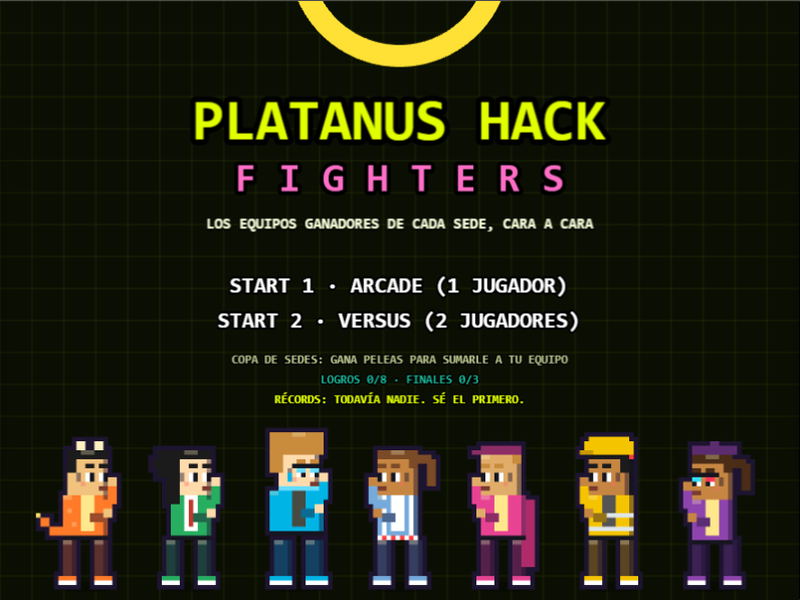
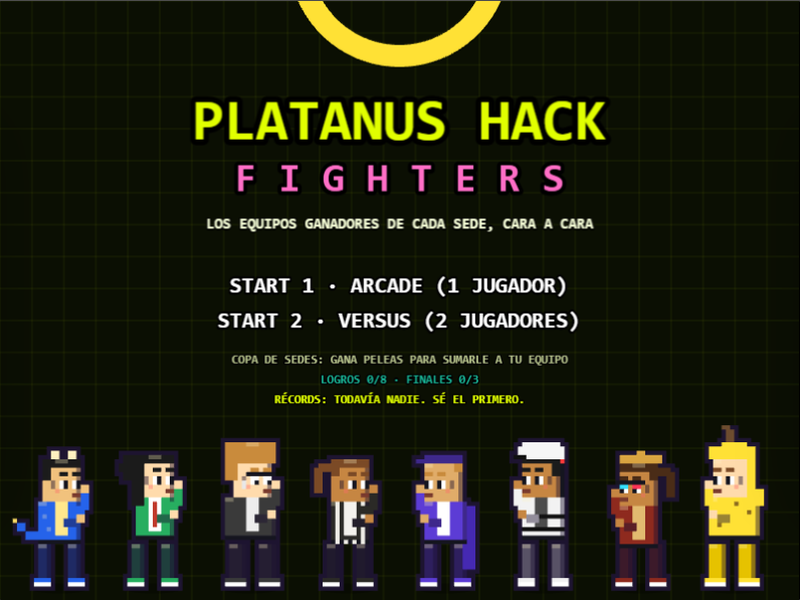
Colores reales de cada proyecto y personaje comodín: El Plátano (cáscara, potasio, lluvia de plátanos)
Claude-Session: https://claude.ai/code/session_012ALWjupv986BNYfoSzeuX5

Changed region(s): [[0.0, 0.69, 0.9688, 0.99]]

diff --git a/game.js b/game.js
@@ -25,17 +25,19 @@ const HC = [0x1b1b1b, 0x4a2c17, 0x7b4a26, 0xc98b3c, 0xe8c872, 0x8e8e8e, 0xb03a2e
 const CH = 'ABCDEFGHIJKLMNÑOPQRSTUVWXYZ0123456789 -';
 // look = piel, color de pelo, peinado (0 corto, 1 largo, 2 rizado, 3 cola, 4 gorra), lentes
 const TEAMS = [
-  { n: 'LITTLE DRAGONS', c: 'SANTIAGO 2024', col: 0xff7b29, ac: 0xffe066, st: 0, p: ['MONEDA DE FUEGO', 'EVOLUCIÓN', 'INTERÉS COMPUESTO'], m: ['1000', '2210', '0121', '3430', '1641'] },
+  { n: 'LITTLE DRAGONS', c: 'SANTIAGO 2024', col: 0x2563eb, ac: 0xffe066, st: 0, p: ['MONEDA DE FUEGO', 'EVOLUCIÓN', 'INTERÉS COMPUESTO'], m: ['1000', '2210', '0121', '3430', '1641'] },
   { n: 'HEDGIE', c: 'SANTIAGO 2025', col: 0x27ae60, ac: 0xffffff, st: 1, p: ['COPY TRADE', 'COBERTURA', 'VENTA EN CORTO'], m: ['2101', '0010', '3220', '1530', '4340'] },
-  { n: 'RECORD.AI', c: 'SANTIAGO 2025', col: 0x00b4e6, ac: 0x0b0f03, st: 1, p: ['ESCANEO FACIAL', '¿CÓMO TE LLAMABAS?', 'RECUERDO TOTAL'], m: ['1001', '3111', '0321', '2031', '4241'] },
-  { n: 'TRANQUERA', c: 'BUENOS AIRES 2026', col: 0x75aadb, ac: 0xffffff, st: 2, p: ['TRANQUERA CERRADA', '[REDACTADO]', 'REGLA VIOLADA'], m: ['1100', '2010', '0420', '3230', '1141'] },
-  { n: 'DOMINIKITO', c: 'CDMX 2026', col: 0xe84393, ac: 0xffe066, st: 3, p: ['ELIGE TU CAMINO', 'CUENTO VIVO', 'PERFIL EMOCIONAL'], m: ['2000', '3111', '1220', '4031', '2340'] },
-  { n: 'WOKI', c: 'BOGOTÁ 2026', col: 0xf5c400, ac: 0x1b1b1b, st: 4, p: ['SEÑAL LORA', 'SOS', 'RESCATE'], m: ['3000', '2110', '1221', '4430', '2541'] },
-  { n: 'MUS3O', c: 'CARACAS 2026', col: 0x8e44ad, ac: 0xffe066, st: 5, p: ['SALA NUEVA', 'MODO EXAMEN', 'PALACIO DE LA MEMORIA'], m: ['2010', '3131', '1220', '4031', '2340'] },
+  { n: 'RECORD.AI', c: 'SANTIAGO 2025', col: 0x3a3a3a, ac: 0xe8e8e8, st: 1, p: ['ESCANEO FACIAL', '¿CÓMO TE LLAMABAS?', 'RECUERDO TOTAL'], m: ['1001', '3111', '0321', '2031', '4241'] },
+  { n: 'TRANQUERA', c: 'BUENOS AIRES 2026', col: 0x2b2a26, ac: 0xefede6, st: 2, p: ['TRANQUERA CERRADA', '[REDACTADO]', 'REGLA VIOLADA'], m: ['1100', '2010', '0420', '3230', '1141'] },
+  { n: 'DOMINIKITO', c: 'CDMX 2026', col: 0x5c3cd5, ac: 0xffffff, st: 3, p: ['ELIGE TU CAMINO', 'CUENTO VIVO', 'PERFIL EMOCIONAL'], m: ['2000', '3111', '1220', '4031', '2340'] },
+  { n: 'WOKI', c: 'BOGOTÁ 2026', col: 0xf2f2f2, ac: 0x111111, st: 4, p: ['SEÑAL LORA', 'SOS', 'RESCATE'], m: ['3000', '2110', '1221', '4430', '2541'] },
+  { n: 'MUS3O', c: 'CARACAS 2026', col: 0x8e2a1e, ac: 0xd9a441, st: 5, p: ['SALA NUEVA', 'MODO EXAMEN', 'PALACIO DE LA MEMORIA'], m: ['2010', '3131', '1220', '4031', '2340'] },
   { n: 'RAFA', c: 'EL ORGANIZADOR', col: 0xe1ff00, ac: 0x1b1b1b, st: 6, p: ['CAMBIO DE LOGÍSTICA', 'CRONOGRAMA', 'DE CERO A PRODUCTO'], m: ['1000'] },
   { n: 'EL DEADLINE', c: '36 HORAS', col: 0xff3b3b, ac: 0xffffff, st: 7, p: ['TIC TAC', 'ÚLTIMO COMMIT', 'DEPLOY A LAS 4AM'], m: ['0000'] },
+  { n: 'EL PLÁTANO', c: 'COMODÍN', col: 0xffe135, ac: 0x6d4c2f, st: 6, p: ['CÁSCARA', 'POTASIO', 'LLUVIA DE PLÁTANOS'], m: ['1000', '3100', '0200', '4300', '2400'] },
 ];
 TEAMS.forEach(t => { t.m = t.m.map((x, i) => x + '10201'[i]); });
+const SELT = [0, 1, 2, 3, 4, 5, 6, 9], isTeam = t => t < 7 || t === 9;
 const SN = ['SANTIAGO 2024', 'SANTIAGO 2025 · MUT, LAS CONDES', 'BUENOS AIRES 2026', 'CDMX 2026', 'BOGOTÁ 2026', 'CARACAS 2026', 'PLATANUS HQ', 'EL DEADLINE'];
 const ROOT = [110, 98, 123, 110, 92, 104, 130, 82];
 const PAT = [0, 0, 12, 0, 7, 0, 10, 12, 0, 0, 12, 0, 5, 7, 3, 5];
@@ -104,11 +106,11 @@ async function load() {
     const a = await ST.get('phf-names-v1');
     if (a && a.found && a.value && Array.isArray(a.value.n)) S.names = a.value.n.slice(0, 2).map(x => typeof x === 'string' ? x.split('').filter(ch => CH.includes(ch)).join('').slice(0, 8) : '');
     const b = await ST.get('phf-wins-v1');
-    if (b && b.found && b.value && typeof b.value === 'object') for (const k in b.value) if (+k >= 0 && +k < 7 && typeof b.value[k] === 'number') S.tw[k] = b.value[k];
+    if (b && b.found && b.value && typeof b.value === 'object') for (const k in b.value) if (isTeam(+k) && typeof b.value[k] === 'number') S.tw[k] = b.value[k];
     const c = await ST.get('phf-ach-v1');
     if (c && c.found && c.value) for (const k of ['a', 'e', 't']) if (typeof c.value[k] === 'number') S.ach[k] = c.value[k] | 0;
     const d = await ST.get('phf-hs-v1');
-    if (d && d.found && Array.isArray(d.value)) S.hs = d.value.filter(e => e && typeof e.n === 'string' && typeof e.s === 'number' && e.t >= 0 && e.t < 7).map(e => ({ n: e.n.slice(0, 8), t: e.t | 0, s: e.s | 0 })).slice(0, 10);
+    if (d && d.found && Array.isArray(d.value)) S.hs = d.value.filter(e => e && typeof e.n === 'string' && typeof e.s === 'number' && isTeam(e.t)).map(e => ({ n: e.n.slice(0, 8), t: e.t | 0, s: e.s | 0 })).slice(0, 10);
     if (S.scr === 'title') go('title');
   } catch (e) { /* sin guardado */ }
 }
@@ -230,6 +232,9 @@ const PW = [
   [f => { shoot(f, 'hand', { d: 6, y: f.y - 125 }); later(.2, () => shoot(f, 'hand', { d: 6, y: f.y - 60 })); },
     f => startAtk(f, { k: 'd', s: .1, a: .3, r: .3, rng: 60, d: 14, dash: 750, y: -90 }),
     f => { const o = opp(f); for (let j = 0; j < 8; j++) later(j * .1, () => shoot(f, 'rock', { x: o.x + rnd(-90, 90), y: -20, vx: 0, vy: 150, g: 1400, d: 4, l: 3, nc: 1 })); }],
+  [f => shoot(f, 'peel', { x: clampX(f.x + f.face * 60), y: GR - 6, vx: 0, d: 4, l: 6, w: 30, h: 12, nc: 1, fx: { stun: 1.1, slip: 1, ub: 1 } }),
+    f => { f.buff = 5; f.hp = Math.min(100, f.hp + 6); flt(f, '+POTASIO', '#ffe135'); snd('heal'); },
+    f => { const o = opp(f); for (let j = 0; j < 7; j++) later(j * .11, () => shoot(f, 'ban', { x: o.x + rnd(-80, 80), y: -20, vx: 0, vy: 180, g: 1400, d: 4, l: 3, nc: 1 })); }],
 ];
 
 function cast(f, k) {
@@ -350,6 +355,7 @@ function hurt(o, d, f, fx) {
     if (fx.inv) { o.inv = fx.inv; flt(o, '¿EH?', '#c39bd3'); }
     if (fx.sil) { o.sil = fx.sil; flt(o, '[REDACTADO]', '#aaaaaa'); }
     if (fx.slow) o.slow = fx.slow;
+    if (fx.slip) flt(o, '¡SE RESBALÓ!', '#ffe135');
     if (fx.drain) o.m = Math.max(0, o.m - fx.drain);
     if (fx.time) { S.time = Math.max(1, S.time - fx.time); flt(o, '-3 SEG', '#e1ff00'); }
     spark(o.x, o.y - 95, 0xffe066); snd('hit'); S.hst = d >= 12 ? .12 : .06; S.imp.push({ x: o.x - dir * 18, y: o.y - 100, l: .12, s: d >= 12 ? 1.6 : 1 });
@@ -389,7 +395,7 @@ function drawF(g, f, X, Y, sc = 1) {
   X = Math.round(X / U) * U; Y = Math.round(Y / U) * U;
   const ps = pose(f), W8 = 0xffffff, sk = f.fl > 0 ? W8 : SK[L[0]], hc = HC[L[1]], hs = L[2];
   const sh = f.fl > 0 ? W8 : T.col, sh2 = shd(sh), dk = 0x15151f;
-  const pa = f.fl > 0 ? W8 : lerpC(T.col, 0x1d1430, .72);
+  const pa = f.fl > 0 ? W8 : t === 9 ? 0xe6c200 : lerpC(T.col, 0x1d1430, .72);
   // complexion: 0 slim, 1 medium, 2 broad
   const bd = L[4] === undefined ? 1 : L[4], tw = [9, 10, 12][bd], tl = -(tw >> 1), lw = bd === 2 ? 4 : 3;
   const gl = L[3] || t === 2 || t === 6;
@@ -424,20 +430,21 @@ function drawF(g, f, X, Y, sc = 1) {
     }
     const b = cr + bob + (ps === 'jump' ? -4 : 0), y = d => d + b, x = d => d + ln;
     // behind the body: cape (Dominikito), tail (Little Dragons), antenna (WOKI), hood (Rafa)
-    if (t === 4) R(x(tl - 2), y(-19), 3, 15, lerpC(sh, 0x6b0f3a, .45));
+    if (t === 4) R(x(tl - 2), y(-19), 3, 15, lerpC(sh, 0x2e168f, .5));
     if (t === 0) { R(x(tl - 3), y(-13), 3, 2, sh); R(x(tl - 5), y(-15), 2, 2, sh); if (!ol) R(x(tl - 6), y(-16), 1, 1, 0xffe066); }
     if (t === 5) { R(x(tl), y(-28), 1, 8, dk); if (!ol) R(x(tl), y(-29), 1, 1, S.T % 1 < .5 ? 0xff3b3b : 0x661111); }
     if (t === 7) R(x(-6), y(-22), 3, 3, sh2);
     // torso: open jacket in team color with inner shirt
     B(x(tl), y(-20), tw, 9, sh);
     if (!ol) {
-      R(x(-1), y(-20), 3, 8, t === 1 ? W8 : lerpC(T.ac, W8, .25));
+      if (t === 9) { R(x(tl + 2), y(-17), 1, 1, 0x8a6a1f); R(x(tl + tw - 3), y(-14), 1, 1, 0x8a6a1f); R(x(-1), y(-19), 1, 1, 0x8a6a1f); }
+      else R(x(-1), y(-20), 3, 8, t === 1 ? W8 : lerpC(T.ac, W8, .25));
       if (t === 1) R(x(0), y(-19), 1, 6, 0xc0392b);
-      if (t === 3) { R(x(tl + 1), y(-20), 1, 9, W8); R(x(tl + tw - 2), y(-20), 1, 9, W8); }
+      if (t === 3) { R(x(tl + 1), y(-20), 1, 9, T.ac); R(x(tl + tw - 2), y(-20), 1, 9, T.ac); }
       if (t === 0) { R(x(tl + 1), y(-17), 1, 1, lit(sh)); R(x(tl + 2), y(-14), 1, 1, lit(sh)); }
-      if (t === 5) { R(x(tl), y(-16), tw, 1, 0xdfe6e9); R(x(tl), y(-13), tw, 1, 0xdfe6e9); }
+      if (t === 5) { R(x(tl), y(-16), tw, 1, 0x111111); R(x(tl), y(-13), tw, 1, 0x111111); }
       if (t === 7) { R(x(-2), y(-16), 1, 1, dk); R(x(-1), y(-15), 3, 1, dk); R(x(2), y(-16), 1, 1, dk); }
-      for (let k = 0; k < tw; k++) R(x(tl + k), y(-11), 1, 1, t === 3 ? (k & 1 ? 0xff3b3b : W8) : dk);
+      for (let k = 0; k < tw; k++) R(x(tl + k), y(-11), 1, 1, t === 3 ? (k & 1 ? T.ac : dk) : dk);
     }
     // head with ear
     B(x(-4), y(-29), 9, 9, sk);
@@ -454,25 +461,30 @@ function drawF(g, f, X, Y, sc = 1) {
       R(x(-1), y(-23), 1, 1, lerpC(sk, 0xff6b6b, .4));
       if (gl && !hurt) {
         R(x(-1), y(-26), 7, 1, dk);
-        const l1 = t === 6 ? 0xff3355 : t === 2 ? 0x66ddff : 0x9fb4c8, l2 = t === 6 ? 0x33e0ff : l1;
+        const l1 = t === 6 ? 0xff3355 : t === 2 ? 0xffffff : 0x9fb4c8, l2 = t === 6 ? 0x33e0ff : l1;
         R(x(0), y(-25), 2, 1, l1); R(x(3), y(-25), 2, 1, l2);
       }
-      if (t === 2) { R(x(-2), y(-24), 1, 2, 0x00b4e6); if ((S.T * 3 | 0) % 4 === 0) R(x(-4), y(-29 + ((S.T * 30) | 0) % 9), 9, 1, 0x66ddff); }
+      if (t === 2) { R(x(-2), y(-24), 1, 2, 0xe8e8e8); if ((S.T * 3 | 0) % 4 === 0) R(x(-4), y(-29 + ((S.T * 30) | 0) % 9), 9, 1, 0xffffff); }
       if (f.sil > 0) R(x(2), y(-23), 4, 2, 0x000000);
     }
     // hair
     const H2 = (dx, dy, w, h) => R(x(dx), y(dy), w, h, hc);
-    if (hs === 0) { H2(-4, -30, 9, 2); H2(-4, -28, 2, 3); }
+    if (t === 9) {
+      R(x(-5), y(-32), 11, 3, sh); R(x(-5), y(-29), 2, 10, sh); R(x(-3), y(-33), 6, 1, sh);
+      R(x(0), y(-36), 2, 3, 0x6d4c2f); R(x(1), y(-37), 2, 1, 0x6d4c2f);
+      R(x(tl - 1), y(-22), 2, 4, sh); R(x(tl + tw - 1), y(-22), 2, 4, sh);
+    }
+    else if (hs === 0) { H2(-4, -30, 9, 2); H2(-4, -28, 2, 3); }
     else if (hs === 1) { H2(-5, -30, 10, 2); H2(-5, -28, 3, 10); }
     else if (hs === 2) { H2(-6, -33, 12, 5); H2(-6, -28, 3, 4); }
     else if (hs === 3) { H2(-4, -30, 9, 2); H2(-4, -28, 2, 2); H2(-7, -29, 3, 2); H2(-8, -28, 2, 6); }
     else { R(x(-4), y(-31), 9, 2, sh2); R(x(3), y(-30), 4, 1, sh2); H2(-4, -29, 2, 2); }
-    if (!ol && hs !== 4) R(x(-1), y(hs === 2 ? -33 : -30), 3, 1, lit(hc));
+    if (!ol && hs !== 4 && t !== 9) R(x(-1), y(hs === 2 ? -33 : -30), 3, 1, lit(hc));
     // team signature accessory
     if (t === 0) { R(x(-2), y(-32 - (hs === 2 ? 2 : 0)), 2, 2, 0xfff1c1); R(x(2), y(-32 - (hs === 2 ? 2 : 0)), 2, 2, 0xfff1c1); }
     if (t === 1) { H2(-7, -30, 3, 2); H2(-8, -28, 3, 2); H2(-7, -26, 2, 2); }
-    if (t === 5) { R(x(-5), y(-32), 11, 3, 0xf5c400); R(x(-4), y(-33), 9, 1, 0xf5c400); R(x(4), y(-30), 3, 1, 0xc99a00); }
-    if (t === 6) { R(x(-5), y(-32), 10, 2, 0x5b2c6f); R(x(-1), y(-33), 2, 1, 0x5b2c6f); }
+    if (t === 5) { R(x(-5), y(-32), 11, 3, 0xf5f5f5); R(x(-4), y(-33), 9, 1, 0xf5f5f5); R(x(4), y(-30), 3, 1, 0x111111); }
+    if (t === 6) { R(x(-5), y(-32), 10, 2, 0xd9a441); R(x(-1), y(-33), 2, 1, 0xd9a441); }
     if (t === 7 && !ol) { R(x(-5), y(-27), 1, 4, dk); R(x(-5), y(-23), 6, 1, dk); R(x(1), y(-23), 1, 1, 0xff3b3b); }
     // arms: always on guard, fists up
     const guard = () => { R(x(1), y(-16), 3, 2, sh2); R(x(4), y(-17), 2, 2, sk); R(x(3), y(-19), 3, 2, sh); R(x(5), y(-22), 2, 4, sh); R(x(5), y(-24), 2, 2, sk); };
@@ -561,7 +573,7 @@ function drawP(g, p) {
       g.fillStyle(p.k === 'q' ? 0xffffff : 0x8e44ad); g.fillRect(x - 5, y - 9, 10, 3); g.fillRect(x + 3, y - 9, 3, 8); g.fillRect(x - 2, y - 2, 5, 3); g.fillRect(x - 2, y + 5, 4, 4); break;
     case 'red': g.fillStyle(0x000000); g.fillRect(x - 20, y - 7, 40, 14); g.lineStyle(2, 0xffffff); g.strokeRect(x - 20, y - 7, 40, 14); break;
     case 'book': g.fillStyle(0x8e5a2f); g.fillRect(x - 11, y - 8, 22, 16); g.fillStyle(0xffffff); g.fillRect(x - 9, y - 6, 18, 2); g.fillStyle(0xe84393); g.fillRect(x - 1, y - 8, 2, 16); break;
-    case 'buddy': { const s = Math.round(Math.sin(S.T * 20) * 2); g.fillStyle(0xe84393); g.fillRect(x - 10, y - 14, 20, 14); g.fillRect(x + d * 6 - 4, y - 22, 10, 10); g.fillStyle(0xffffff); g.fillRect(x + d * 8, y - 19, 3, 3); g.fillStyle(0x2d3047); g.fillRect(x - 8 + s, y, 5, 6); g.fillRect(x + 3 - s, y, 5, 6); break; }
+    case 'buddy': { const s = Math.round(Math.sin(S.T * 20) * 2); g.fillStyle(0x9c7cf6); g.fillRect(x - 10, y - 14, 20, 14); g.fillRect(x + d * 6 - 4, y - 22, 10, 10); g.fillStyle(0xffffff); g.fillRect(x + d * 8, y - 19, 3, 3); g.fillStyle(0x2d3047); g.fillRect(x - 8 + s, y, 5, 6); g.fillRect(x + 3 - s, y, 5, 6); break; }
     case 'heart': g.fillStyle(0xff3b8d); g.fillCircle(x - 8, y - 6, 11); g.fillCircle(x + 8, y - 6, 11); g.fillTriangle(x - 18, y - 2, x + 18, y - 2, x, y + 18); break;
     case 'wave': g.lineStyle(4, 0xf5c400); for (let k = 0; k < 3; k++) { g.beginPath(); g.arc(x - d * 20, y, 12 + k * 10, d > 0 ? -.8 : Math.PI - .8, d > 0 ? .8 : Math.PI + .8, false); g.strokePath(); } break;
     case 'rock': g.fillStyle(0x7f8c8d); g.fillRect(x - 10, y - 10, 20, 20); g.fillStyle(0x4d5656); g.fillRect(x - 10, y + 4, 20, 6); break;
@@ -569,6 +581,8 @@ function drawP(g, p) {
     case 'clip': g.fillStyle(0x8d6e4f); g.fillRect(x - 10, y - 13, 20, 26); g.fillStyle(0xffffff); g.fillRect(x - 7, y - 8, 14, 18); g.fillStyle(0x888888); g.fillRect(x - 4, y - 15, 8, 4); break;
     case 'clock': g.fillStyle(0xffffff); g.fillCircle(x, y, 13); g.lineStyle(3, 0x111111); g.strokeCircle(x, y, 13); g.lineBetween(x, y, x + Math.cos(S.T * 12) * 9, y + Math.sin(S.T * 12) * 9); break;
     case 'robot': g.fillStyle(0x95a5a6); g.fillRect(x - 30, y - 30, 60, 60); g.fillStyle(0xe1ff00); g.fillRect(x - 18, y - 16, 10, 8); g.fillRect(x + 8, y - 16, 10, 8); g.fillStyle(0x34495e); g.fillRect(x - 15, y + 8, 30, 6); g.fillRect(x - 3, y - 42, 6, 12); break;
+    case 'peel': g.fillStyle(0xffe135); g.fillRect(x - 14, y - 2, 28, 6); g.fillRect(x - 14, y - 8, 6, 6); g.fillRect(x + 8, y - 8, 6, 6); g.fillRect(x - 3, y - 10, 6, 8); g.fillStyle(0x6d4c2f); g.fillRect(x - 2, y - 13, 4, 3); break;
+    case 'ban': g.fillStyle(0xffe135); g.fillRect(x - 10, y - 2, 20, 6); g.fillRect(x - 14, y - 7, 5, 6); g.fillRect(x + 9, y - 7, 5, 6); g.fillStyle(0x6d4c2f); g.fillRect(x - 15, y - 9, 3, 3); g.fillRect(x + 12, y - 9, 3, 3); break;
     case 'hand': g.fillStyle(0x111111); g.fillRect(x - 16, y - 3, 32, 6); g.fillTriangle(x + d * 22, y, x + d * 10, y - 8, x + d * 10, y + 8); break;
   }
 }
@@ -690,11 +704,11 @@ function initTitle() {
   tx(W / 2, 358, rk.length ? 'COPA DE SEDES: ' + rk.map(k => TEAMS[k].n + ' ' + S.tw[k]).join(' · ') : 'COPA DE SEDES: GANA PELEAS PARA SUMARLE A TU EQUIPO', 12, '#b8c48d');
   tx(W / 2, 378, 'LOGROS ' + pc(S.ach.a) + '/8 · FINALES ' + pc(S.ach.e) + '/3', 12, '#1abc9c');
   tx(W / 2, 398, S.hs.length ? 'RÉCORDS: ' + S.hs.slice(0, 3).map((e, i) => (i + 1) + '. ' + e.n + ' ' + e.s).join('  ') : 'RÉCORDS: TODAVÍA NADIE. SÉ EL PRIMERO.', 12, '#e1ff00');
-  S.demo = TEAMS.slice(0, 7).map((t, j) => { const f = mkF(0, j, t.m[j % 5], '', 0); f.face = j < 3 ? 1 : -1; return f; });
+  S.demo = SELT.map((t, j) => { const f = mkF(0, t, TEAMS[t].m[j % 5], '', 0); f.face = j < 4 ? 1 : -1; return f; });
 }
 function updTitle(dt) {
   S.g.clear();
-  S.demo.forEach((f, j) => { f.anim += dt; drawF(S.g, f, 85 + j * 105, 585, .9); });
+  S.demo.forEach((f, j) => { f.anim += dt; drawF(S.g, f, 58 + j * 97, 585, .85); });
   S.b1.setAlpha(S.T % 1 < .6 ? 1 : .4);
   if (pr('START1')) { snd('ok'); S.np = 1; go('sel'); }
   else if (pr('START2')) { snd('ok'); S.np = 2; go('sel'); }
@@ -725,8 +739,8 @@ function updSel(dt) {
     const P = i ? 'P2_' : 'P1_';
     if (s.ph === 0) {
       let ch = 0;
-      if (pr(P + 'D') || pr(P + 'R')) { s.t = (s.t + 1) % 7; ch = 1; }
-      if (pr(P + 'U') || pr(P + 'L')) { s.t = (s.t + 6) % 7; ch = 1; }
+      if (pr(P + 'D') || pr(P + 'R')) { s.t = SELT[(SELT.indexOf(s.t) + 1) % 8]; ch = 1; }
+      if (pr(P + 'U') || pr(P + 'L')) { s.t = SELT[(SELT.indexOf(s.t) + 7) % 8]; ch = 1; }
       if (ch) { s.m = 0; s.lk = TEAMS[s.t].m[0].split('').map(Number); snd('sel'); }
       if (pr(P + '1')) { s.ph = 1; snd('ok'); }
     } else if (s.ph === 1) {
@@ -750,7 +764,7 @@ function updSel(dt) {
     } else if (pr(P + '6')) s.ph = 2;
     if (s.ph === 3) ready++;
     const T = TEAMS[s.t];
-    for (let k = 0; k < 7; k++) { S.g.fillStyle(TEAMS[k].col, k === s.t ? 1 : .35); S.g.fillRect(s.cx - 133 + k * 38, 60, 32, 26); if (k === s.t) { S.g.lineStyle(3, 0xffffff); S.g.strokeRect(s.cx - 135 + k * 38, 58, 36, 30); } }
+    for (let j = 0; j < 8; j++) { const k = SELT[j]; S.g.fillStyle(TEAMS[k].col, k === s.t ? 1 : .35); S.g.fillRect(s.cx - 138 + j * 35, 60, 29, 26); if (k === s.t) { S.g.lineStyle(3, 0xffffff); S.g.strokeRect(s.cx - 140 + j * 35, 58, 36, 30); } }
     s.tT.setText((s.ph === 0 ? '◄ ' : '') + T.n + (s.ph === 0 ? ' ►' : '')).setColor('#' + T.col.toString(16).padStart(6, '0'));
     s.tC.setText(T.c);
     s.tP.setText('3 · ' + T.p[0] + '\n4 · ' + T.p[1] + '\n5 · SÚPER: ' + T.p[2]);
@@ -772,7 +786,7 @@ function updSel(dt) {
         S.stage = TEAMS[Math.random() < .5 ? a.t : b.t].st; S.lv = 0;
         go('vs');
       } else {
-        S.lad = [0, 1, 2, 3, 4, 5, 6].filter(x => x !== a.t).sort(() => Math.random() - .5).slice(0, 3).concat([7, 8]);
+        S.lad = SELT.filter(x => x !== a.t).sort(() => Math.random() - .5).slice(0, 3).concat([7, 8]);
         S.li = 0; S.ch = []; S.pts = 0; go('story');
       }
     }
@@ -791,7 +805,7 @@ function nextArcade() {
 // Las peleas siguen siendo las mismas (los caminos convergen), pero las decisiones se recuerdan:
 // cambian reglas de la siguiente pelea, lo que dicen los jefes y el final.
 const HR = ['VIE 23:00 · ARRANCA EL RELOJ', 'SÁB 05:00 · LA MADRUGADA', 'SÁB 15:00 · EL PIVOTE', 'DOM 08:00 · ENSAYO CON RAFA', 'DOM 10:59 · EL DEADLINE'];
-const QT = ['¿AHORRASTE PARA ESTA PELEA?', 'COPIO TU ESTRATEGIA. COMISIÓN CERO.', 'YA ESCANEÉ TU CARA. NO ME OLVIDARÁS.', 'ESA JUGADA NO PASA LA REGLA.', 'ELIGE BIEN: ESTE CUENTO TIENE FINAL.', 'SIN INTERNET TAMBIÉN TE ENCUENTRO.', 'BIENVENIDO A MI PALACIO. HAY EXAMEN.', 'DE CERO A PRODUCTO. ¿TÚ QUÉ TRAJISTE?', 'TIC, TAC. NADIE ME HA GANADO.'];
+const QT = ['¿AHORRASTE PARA ESTA PELEA?', 'COPIO TU ESTRATEGIA. COMISIÓN CERO.', 'YA ESCANEÉ TU CARA. NO ME OLVIDARÁS.', 'ESA JUGADA NO PASA LA REGLA.', 'ELIGE BIEN: ESTE CUENTO TIENE FINAL.', 'SIN INTERNET TAMBIÉN TE ENCUENTRO.', 'BIENVENIDO A MI PALACIO. HAY EXAMEN.', 'DE CERO A PRODUCTO. ¿TÚ QUÉ TRAJISTE?', 'TIC, TAC. NADIE ME HA GANADO.', 'NADIE SOBREVIVE A LA CÁSCARA.'];
 const CHO = [
   { q: 'SON LAS 4 AM Y EL EQUIPO ESTÁ MUERTO.', a: ['DORMIR 2 HORAS', 'SEGUIR HACKEANDO'], d: ['VIDA COMPLETA,\nSIN SÚPER', 'SÚPER LLENO,\nPERO 75% DE VIDA'] },
   { q: 'UN MENTOR DICE QUE LA IDEA NO CONVENCE.', a: ['PIVOTEAR', 'DEFENDER LA IDEA'], d: ['PODERES SE RECARGAN\n30% MÁS RÁPIDO', 'GOLPES CON\n20% MÁS DAÑO'] },
@@ -844,7 +858,7 @@ function initVs() {
   [a, b].forEach((f, i) => {
     const x = 200 + i * 400, T = TEAMS[f.t];
     tx(x, 70, f.name, 30, i ? '#ff6ec7' : '#e1ff00');
-    tx(x, 104, f.t < 7 ? 'TEAM ' + T.n + ' · ' + T.c : T.c, 14, '#f7ffd8');
+    tx(x, 104, isTeam(f.t) ? 'TEAM ' + T.n + ' · ' + T.c : T.c, 14, '#f7ffd8');
     tx(x, 150, '«' + quote(f) + '»', 12, '#ffffff');
   });
   if (S.np === 1) tx(W / 2, 30, HR[S.li] + (S.li === 3 ? ' (NACHO EN LA CÁMARA)' : ''), 16, '#ffffff');
@@ -865,7 +879,7 @@ function initFight() {
   S.F.forEach((f, i) => {
     const L = !i, T = TEAMS[f.t];
     tx(L ? 30 : 770, 58, f.name, 16, '#ffffff', L ? 0 : 1);
-    tx(L ? 30 : 770, 75, f.t < 7 ? 'TEAM ' + T.n : T.c, 11, '#' + T.col.toString(16).padStart(6, '0'), L ? 0 : 1);
+    tx(L ? 30 : 770, 75, isTeam(f.t) ? 'TEAM ' + T.n : T.c, 11, '#' + T.col.toString(16).padStart(6, '0'), L ? 0 : 1);
     tx(L ? 30 : 770, 588, '3 ' + T.p[0] + ' · 4 ' + T.p[1] + ' · 5 ' + T.p[2], 10, '#f7ffd8', L ? 0 : 1);
   });
   S.tt = tx(W / 2, 32, '36', 34, '#ffffff');
